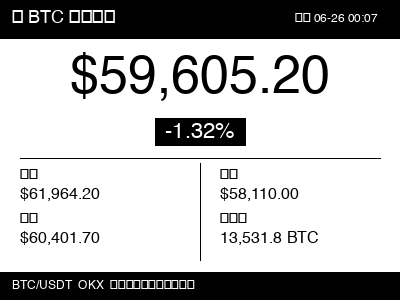
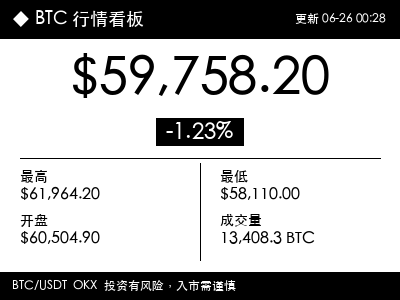
fix: 修复中文字体乱码，优先加载 STHeiti/Hiragino 等中文字体
Claude-Session: https://claude.ai/code/session_01Y9u4YJqiHke34pNHXHRGAX

diff --git a/btc_ticker.py b/btc_ticker.py
@@ -48,15 +48,22 @@ def get_btc_price() -> dict:
 
 
 def load_font(size: int) -> ImageFont.FreeTypeFont:
-    """尝试加载系统字体，兜底用默认字体。"""
+    """加载支持中文的系统字体。"""
     candidates = [
-        "/System/Library/Fonts/Helvetica.ttc",          # macOS
-        "/usr/share/fonts/truetype/dejavu/DejaVuSans-Bold.ttf",  # Linux
-        "/System/Library/Fonts/Arial.ttf",
+        # macOS 简体中文字体
+        ("/System/Library/Fonts/STHeiti Medium.ttc", 0),
+        ("/System/Library/Fonts/Hiragino Sans GB.ttc", 0),
+        ("/System/Library/Fonts/STHeiti Light.ttc", 0),
+        # Linux 中文字体
+        ("/usr/share/fonts/truetype/wqy/wqy-microhei.ttc", 0),
+        ("/usr/share/fonts/opentype/noto/NotoSansCJK-Regular.ttc", 0),
+        # 兜底（不含中文，但不崩溃）
+        ("/System/Library/Fonts/Helvetica.ttc", 0),
+        ("/usr/share/fonts/truetype/dejavu/DejaVuSans-Bold.ttf", 0),
     ]
-    for path in candidates:
+    for path, index in candidates:
         try:
-            return ImageFont.truetype(path, size)
+            return ImageFont.truetype(path, size, index=index)
         except Exception:
             pass
     return ImageFont.load_default()